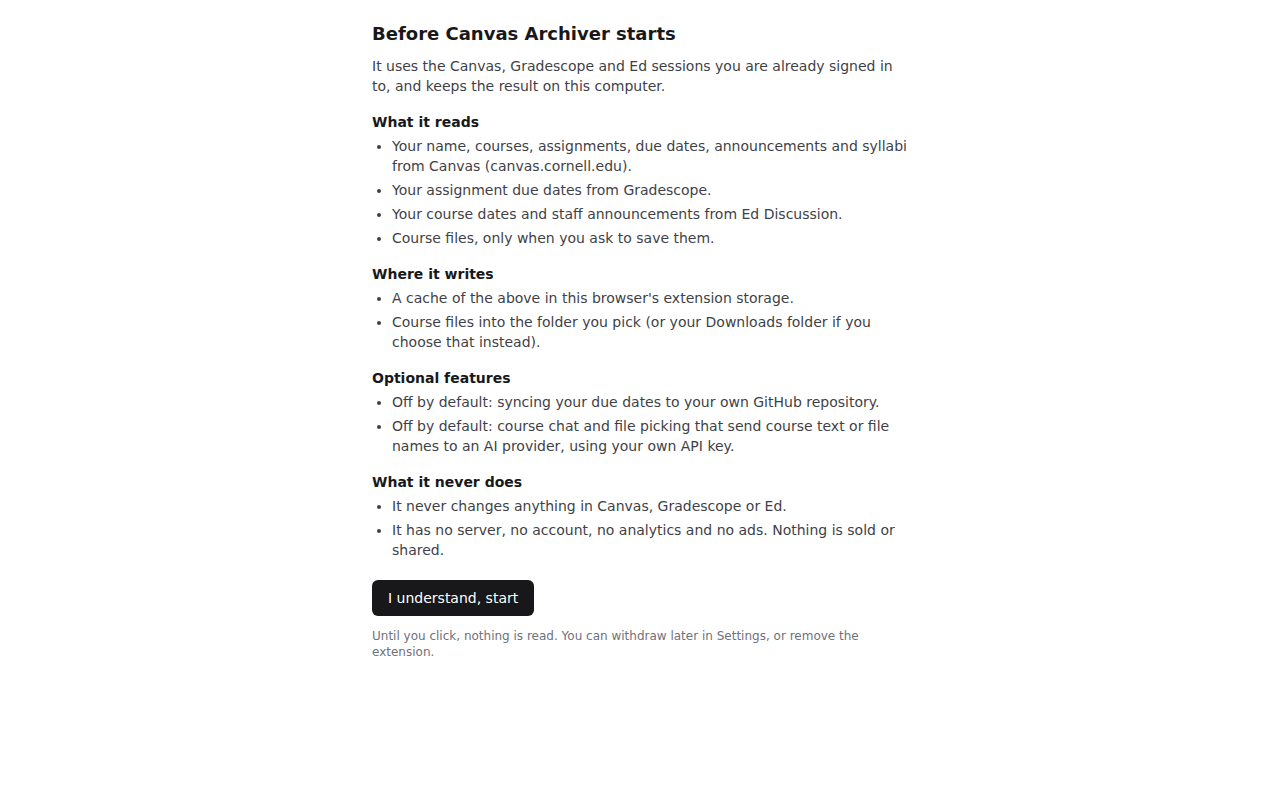
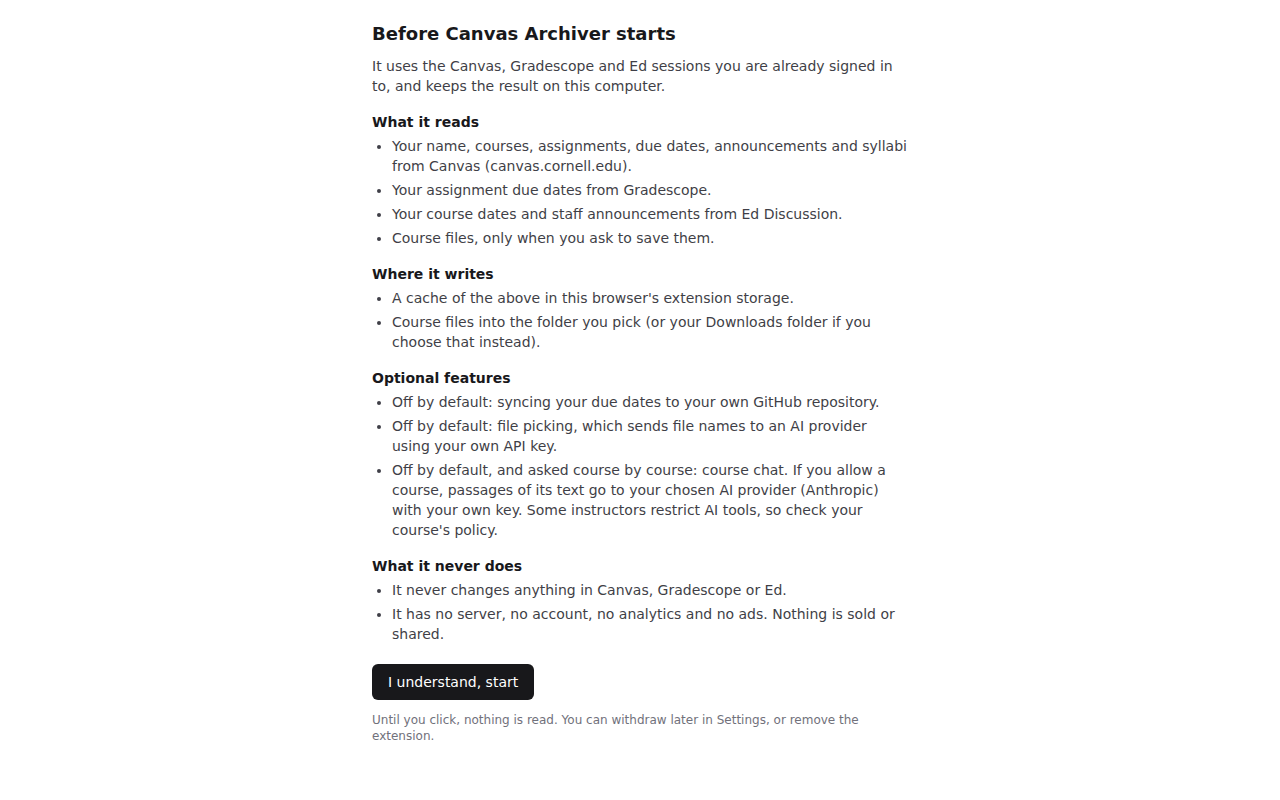
feat(extension): per-course opt-in for course chat, default off, stated on first run
Claude-Session: https://claude.ai/code/session_011nC7yEj3L1TW87C7zskGNN

Changed region(s): [[0.2812, 0.5, 0.6875, 0.9375]]

diff --git a/extension/entrypoints/chat/App.tsx b/extension/entrypoints/chat/App.tsx
@@ -8,7 +8,8 @@
  * announcements, syllabus); PDFs and slides are not read yet, and the page says so.
  */
 
-import { useMemo, useState } from "react";
+import { CHAT_OPT_IN_TEXT, isAllowed, loadAllowed, setCourseAllowed } from "@/src/chat/optin";
+import { useEffect, useMemo, useState } from "react";
 import { complete, loadAi, MODEL } from "@/src/ai/model";
 import { fetchCourseSources } from "@/src/files/api";
 import { archiveLayout } from "@/src/files/layout";
@@ -37,6 +38,14 @@ export default function App() {
   const [turns, setTurns] = useState<Turn[]>([]);
   const [busy, setBusy] = useState(false);
   const [note, setNote] = useState<string | null>(null);
+  const [allowed, setAllowed] = useState<number[]>([]);
+  useEffect(() => { void loadAllowed().then(setAllowed); }, []);
+  const courseAllowed = course ? isAllowed(allowed, course.id) : false;
+  const allow = async (on: boolean) => {
+    if (!course) return;
+    await setCourseAllowed(course.id, on);
+    setAllowed(await loadAllowed());
+  };
   const courseLabel = course ? course.courseCode || course.name : "";
 
   const exams = useMemo(
@@ -69,6 +78,10 @@ export default function App() {
 
   const ask = async (text: string) => {
     if (!course || !index || index.courseId !== course.id || !text.trim()) return;
+    if (!isAllowed(await loadAllowed(), course.id)) {
+      setNote("Allow this course for chat first. Nothing is sent until you do.");
+      return;
+    }
     setBusy(true);
     setNote(null);
     try {
@@ -119,6 +132,15 @@ export default function App() {
           <span className="self-center text-xs text-zinc-500">{index.index.chunks.length} passages from {index.docs} pages; {index.files} files not read</span>
         )}
       </div>
+
+      {course && (
+        <label className="mt-3 flex items-start gap-2 text-sm">
+          <input type="checkbox" className="mt-1" checked={courseAllowed} onChange={(e) => void allow(e.target.checked)} />
+          <span>
+            Allow chat for {courseLabel}. {CHAT_OPT_IN_TEXT}
+          </span>
+        </label>
+      )}
 
       {note && <p className="mt-3 text-sm">{note}</p>}
 

diff --git a/extension/tests/chat-optin.test.ts b/extension/tests/chat-optin.test.ts
@@ -1,0 +1,32 @@
+import { afterEach, describe, expect, it, vi } from "vitest";
+import { isAllowed, loadAllowed, setCourseAllowed, withCourse } from "@/src/chat/optin";
+
+function stubStorage(initial?: unknown) {
+  const data: Record<string, unknown> = initial === undefined ? {} : { "chat.allowedCourses": initial };
+  vi.stubGlobal("chrome", {
+    storage: { local: { get: async (k: string) => (k in data ? { [k]: data[k] } : {}), set: async (o: Record<string, unknown>) => void Object.assign(data, o) } },
+  });
+}
+afterEach(() => vi.unstubAllGlobals());
+
+describe("per-course chat opt-in", () => {
+  it("starts off for every course", async () => {
+    stubStorage();
+    expect(isAllowed(await loadAllowed(), 7)).toBe(false);
+  });
+  it("allows one course without allowing the others, and can turn it off again", async () => {
+    stubStorage();
+    await setCourseAllowed(7, true);
+    await setCourseAllowed(8, true);
+    let allowed = await loadAllowed();
+    expect([isAllowed(allowed, 7), isAllowed(allowed, 8), isAllowed(allowed, 9)]).toEqual([true, true, false]);
+    await setCourseAllowed(7, false);
+    allowed = await loadAllowed();
+    expect([isAllowed(allowed, 7), isAllowed(allowed, 8)]).toEqual([false, true]);
+  });
+  it("does not duplicate and ignores junk in storage", async () => {
+    expect(withCourse([1, 2], 2, true).filter((id) => id === 2)).toHaveLength(1);
+    stubStorage(["a", 3, null, 4.5]);
+    expect(await loadAllowed()).toEqual([3]);
+  });
+});

diff --git a/extension/src/chat/optin.ts b/extension/src/chat/optin.ts
@@ -1,0 +1,35 @@
+/**
+ * Per-course opt-in for course chat.
+ *
+ * Course chat sends passages of a course's text to the AI provider the person
+ * chose, with their own key. Some instructors restrict that for their course
+ * and the extension cannot tell which, so the choice is made course by course
+ * and starts off. The set holds the Canvas ids of the courses allowed.
+ */
+
+const KEY = "chat.allowedCourses";
+
+export function isAllowed(allowed: readonly number[], courseId: number): boolean {
+  return allowed.includes(courseId);
+}
+
+export function withCourse(allowed: readonly number[], courseId: number, on: boolean): number[] {
+  const rest = allowed.filter((id) => id !== courseId);
+  return on ? [...rest, courseId] : rest;
+}
+
+export async function loadAllowed(): Promise<number[]> {
+  try {
+    const stored = (await chrome.storage.local.get(KEY))[KEY];
+    return Array.isArray(stored) ? stored.filter((id): id is number => Number.isInteger(id)) : [];
+  } catch {
+    return [];
+  }
+}
+
+export async function setCourseAllowed(courseId: number, on: boolean): Promise<void> {
+  await chrome.storage.local.set({ [KEY]: withCourse(await loadAllowed(), courseId, on) });
+}
+
+export const CHAT_OPT_IN_TEXT =
+  "Course text from this course will be sent to Anthropic, the AI provider, using your own API key. Some instructors restrict AI tools for their course; check this course's policy first.";

diff --git a/extension/src/consent/consent.ts b/extension/src/consent/consent.ts
@@ -30,7 +30,8 @@ export const DISCLOSURE = {
   ],
   optional: [
     "Off by default: syncing your due dates to your own GitHub repository.",
-    "Off by default: course chat and file picking that send course text or file names to an AI provider, using your own API key.",
+    "Off by default: file picking, which sends file names to an AI provider using your own API key.",
+    "Off by default, and asked course by course: course chat. If you allow a course, passages of its text go to your chosen AI provider (Anthropic) with your own key. Some instructors restrict AI tools, so check your course's policy.",
   ],
   never: [
     "It never changes anything in Canvas, Gradescope or Ed.",

diff --git a/docs/PRIVACY.md b/docs/PRIVACY.md
@@ -19,7 +19,8 @@ It is read-only. It never submits, edits or deletes anything on those sites. It 
 - **Stored on your device:** a cache of the above in the extension's local storage, and course files in the folder you choose (or your Downloads folder if you pick that). No data is stored on any server, because there is no server.
 - **Sent anywhere else:** only when you turn on an optional feature, and each is off by default. The browser asks you for the extra site permission when you do.
   - *Due-date sync to GitHub:* a file listing your upcoming deadlines (course, title, due time, link, done or not) is written to the GitHub repository you name, using a token you create and enter. Nothing else is sent.
-  - *AI features (course chat, file picking):* the course text or file names needed for your question are sent to the AI provider (Anthropic) using your own API key. The key is stored only on your device. The provider's own terms govern what it does with that text; we never see it.
+  - *File picking:* file and folder names are sent to the AI provider (Anthropic) using your own API key.
+  - *Course chat:* asked **per course** and off for every course until you tick that course's box. Only then are the few passages found for your question sent to Anthropic using your own API key. The key is stored only on your device. The provider's own terms govern what it does with that text; we never see it.
 - **Never:** no analytics or telemetry, no advertising, no sale or transfer of your data, no human reads your data, no use for anything except showing it to you.
 
 ## Your controls

diff --git a/docs/STORE_LISTING.md b/docs/STORE_LISTING.md
@@ -7,6 +7,7 @@ Built on top of the v2 stack. Review PR: see the PR description.
 - Icons: `extension/public/icon/{16,32,48,96,128}.png` (128 has 16 px transparent padding around 96 px art). Source: `docs/store/icon.svg` (render it at each size on a transparent background).
 - Screenshots (1280x800, taken from the built extension with fictional data, no mockups): `docs/store/1-first-run-consent.png`, `2-upcoming.png`, `3-week-schedule.png`, `4-settings.png`.
 - First-run consent: `extension/src/consent/consent.ts` and `src/ui/ConsentGate.tsx`. Every page shows the disclosure until you click accept; the service worker does no fetching, no alarm refresh and no feed run without it. Settings has "Withdraw consent".
+- Course chat opt-in: per course, off by default (checkbox on the chat page, `src/chat/optin.ts`); the first-run screen says so. Courses cannot be listed on first run because nothing may be read before consent, so the per-course choice lives where the course is picked.
 - Privacy policy: `docs/PRIVACY.md`.
 - Manifest description now says "by default" (the opt-in features are real).
 
